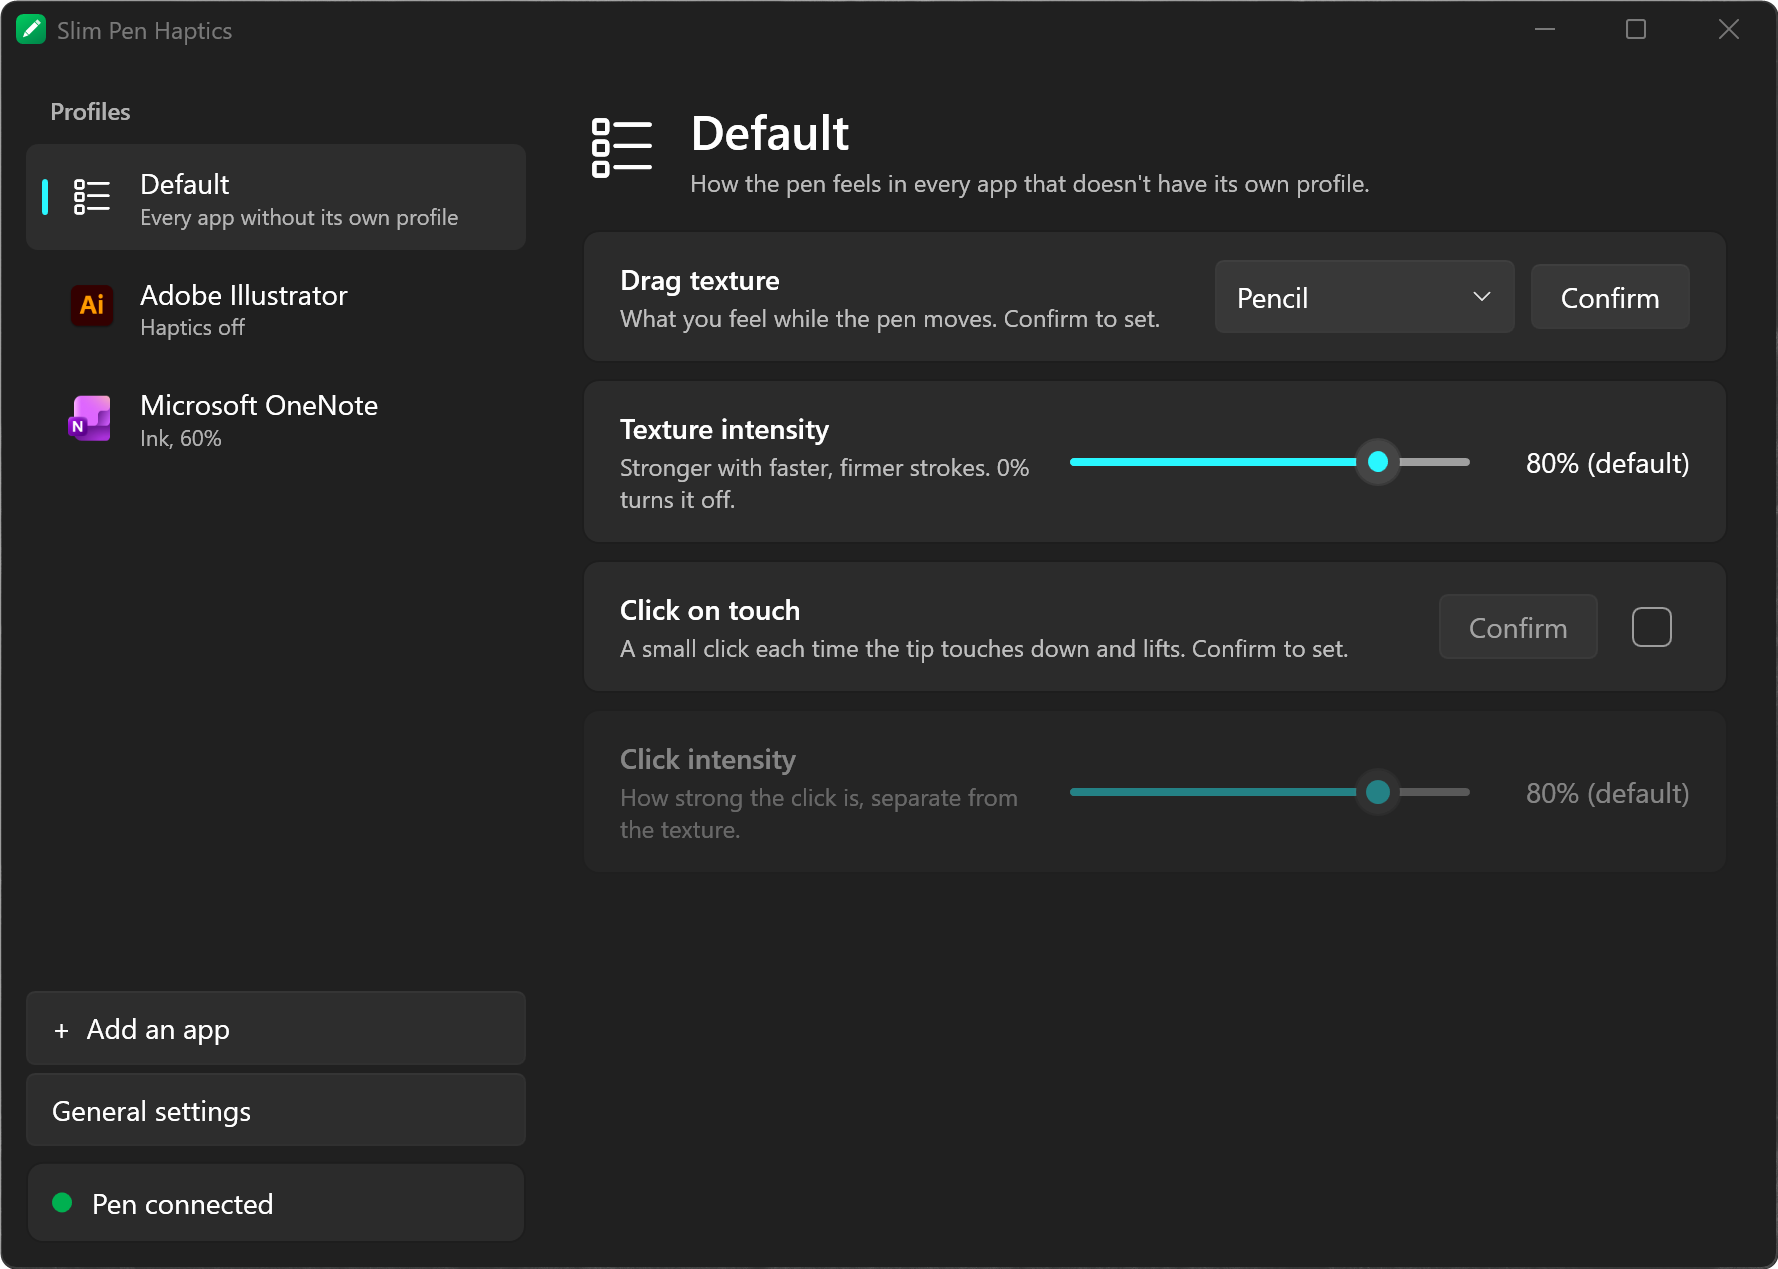
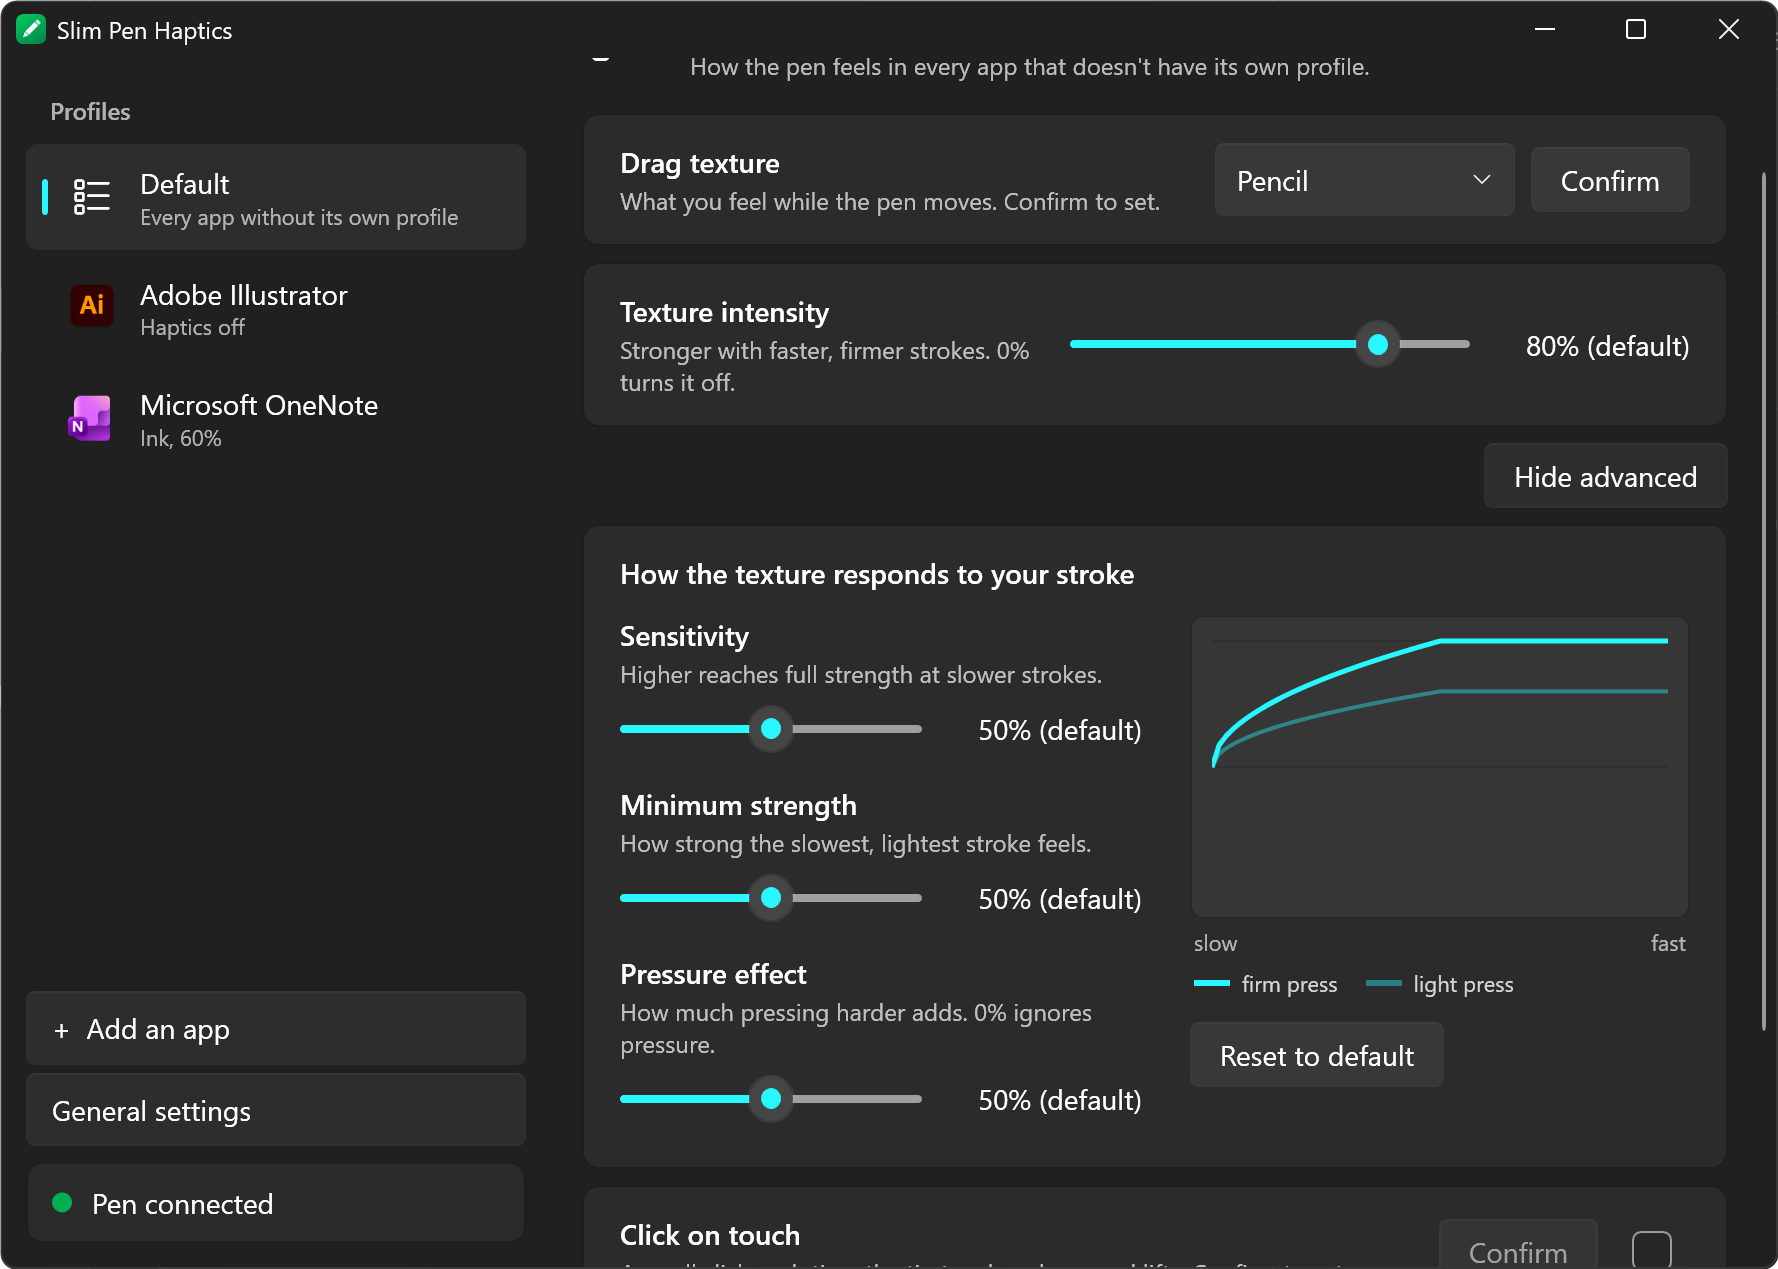
README: screenshots for 2.1.0, including response tuning

diff --git a/README.md b/README.md
@@ -5,7 +5,7 @@
 The Slim Pen 2 has a haptic motor that makes drawing feel like pen on paper, but Windows only lets approved apps use it. This tray app talks to the pen directly, so you get that feel in Clip Studio, Krita, OneNote, your browser, the desktop, or anything else.
 
 <p align="center">
-  <img src="assets/screenshots/app-profile.png" width="760" alt="The Slim Pen Haptics window showing a profile for Microsoft OneNote: haptics on, Ink texture with a Confirm button, texture intensity at 60%, and click on touch enabled with its own intensity slider. The sidebar lists Default, Adobe Illustrator with haptics off, and Microsoft OneNote.">
+  <img src="assets/screenshots/app-profile.png" width="760" alt="The Slim Pen Haptics window showing a profile for Microsoft OneNote: haptics on, Ink texture with a Confirm button, texture intensity at 60%, an Advanced button, and click on touch enabled with its own intensity slider. The sidebar lists Default, Adobe Illustrator with haptics off, and Microsoft OneNote.">
 </p>
 
 ## What you get
@@ -20,6 +20,10 @@ The Slim Pen 2 has a haptic motor that makes drawing feel like pen on paper, but
 
 <p align="center">
   <img src="assets/screenshots/default-profile.png" width="760" alt="The Default profile: Pencil texture, intensity at 80%, click on touch off. It applies to every app without its own profile.">
+</p>
+
+<p align="center">
+  <img src="assets/screenshots/response-tuning.png" width="760" alt="The Advanced section open on the Default profile: sliders for Sensitivity, Minimum strength and Pressure effect, each at 50%, beside a graph of strength against stroke speed with one line for a firm press and one for a light press.">
 </p>
 
 ## Download and run
